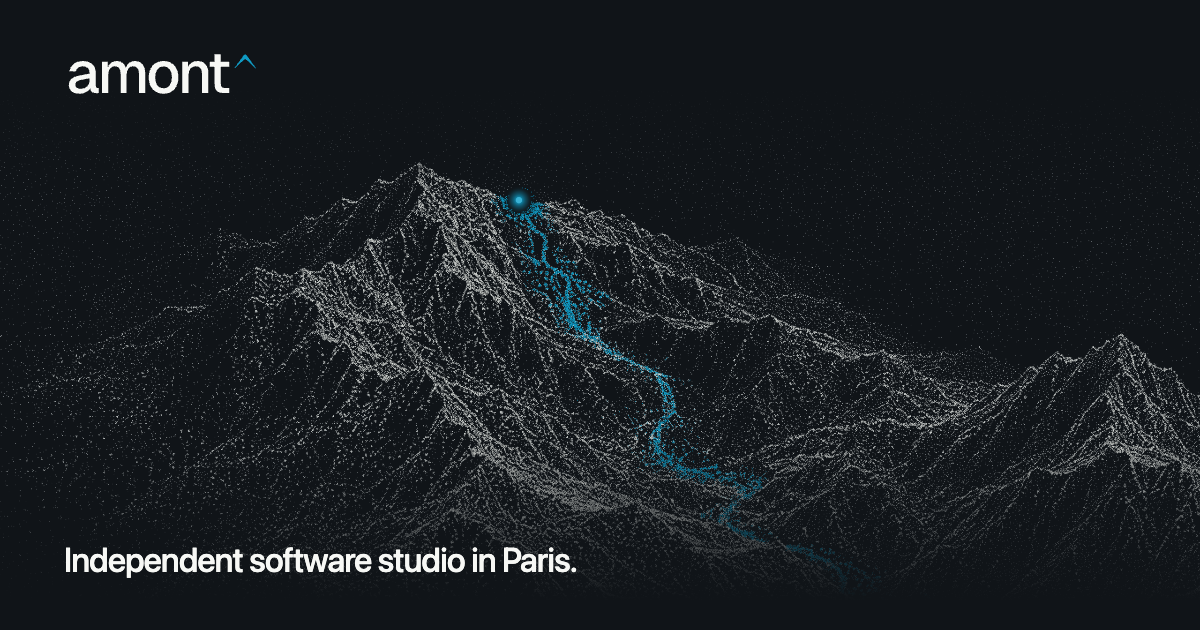
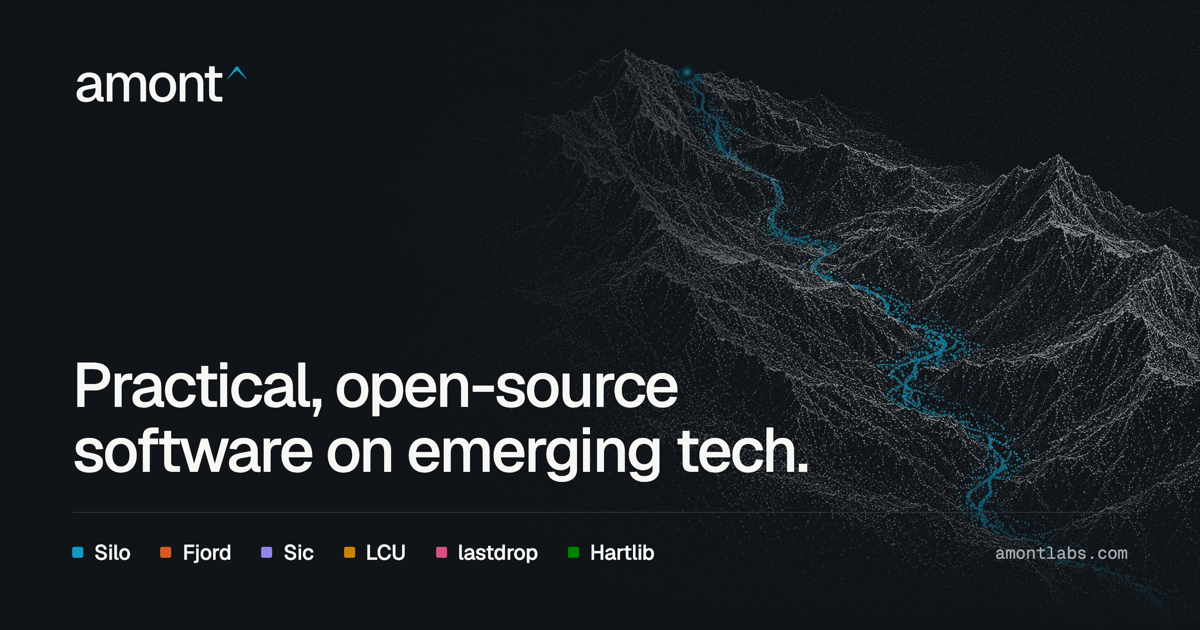
New Open Graph card: the scene, the hero sentence and the featured projects
Rendered by scripts/make-og.mjs from the site's own pieces; the meta tag carries a content hash so platforms refetch it.

diff --git a/AGENTS.md b/AGENTS.md
@@ -23,7 +23,7 @@ Context for the amontlabs.com site. Brand, decisions and the founder's taste liv
 
 ## Updating the scene
 
-Regenerate data in `amontlabs/amont`, copy `site/signature/data/img-meta.json` to `public/signature/meta.json` and `img-terrain-hi|lo.bin`, `img-river.bin` to `public/signature/{terrain-hi,terrain-lo,river}.bin`; port any `signature.js` change by hand, then run `node scripts/make-posters.mjs` (dev server up) and rebuild `public/og.png`.
+Regenerate data in `amontlabs/amont`, copy `site/signature/data/img-meta.json` to `public/signature/meta.json` and `img-terrain-hi|lo.bin`, `img-river.bin` to `public/signature/{terrain-hi,terrain-lo,river}.bin`; port any `signature.js` change by hand, then run `node scripts/make-posters.mjs` (dev server up) and rebuild `public/og.png` (`bun scripts/make-og.mjs`; also after changing the hero sentence or the featured projects).
 
 ## Tooling
 

diff --git a/README.md b/README.md
@@ -24,7 +24,7 @@ The hero is a WebGL scene (a point-cloud mountain with a Fonte river). It is gen
 - `src/scripts/signature.js`: the scene module (Three.js), loaded as a separate chunk after the page is idle.
 - `public/signature/*.bin`, `meta.json`: the baked geometry.
 - `src/assets/signature/poster-{dark,light}.png`: the posters (the LCP), converted to AVIF/WebP by Astro. Regenerate them from the live scene with `bun dev` running, then `node scripts/make-posters.mjs`.
-- `public/og.png`: the Open Graph image (1200x630).
+- `public/og.png`: the Open Graph image (1200x630), rendered by `bun scripts/make-og.mjs` from the poster, the logo, the hero sentence and the featured projects (`ORDER` in `Journal.astro`). Rerun it when any of those change; the meta tag carries a content hash so platforms refetch it.
 
 ## Scroll choreography
 
